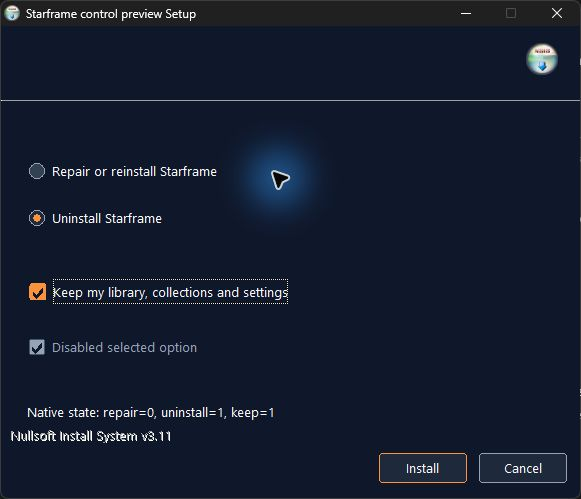
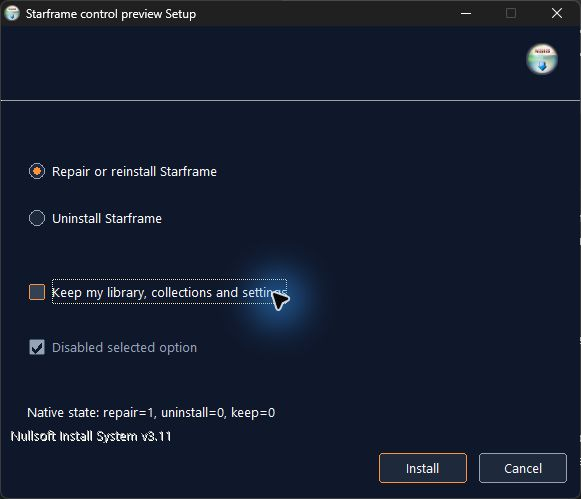
Stabilize installer focus outlines and header painting

diff --git a/src-tauri/windows/theme/buttons.cpp b/src-tauri/windows/theme/buttons.cpp
@@ -29,7 +29,7 @@ static bool DrawButton(const NMCUSTOMDRAW& draw)
         : hovered ? RGB(51, 65, 85) : RGB(30, 41, 59);
     const int saved = SaveDC(draw.hdc);
     if (!saved) return false;
-    const int width = MulDiv(focused ? 2 : 1, static_cast<int>(dpi), 96);
+    const int width = MulDiv(1, static_cast<int>(dpi), 96);
     const HPEN pen = CreatePen(PS_SOLID, width > 0 ? width : 1, border);
     const HBRUSH brush = CreateSolidBrush(background);
     const HBRUSH canvas = CreateSolidBrush(RGB(15, 23, 42));
@@ -98,9 +98,10 @@ static bool DrawButton(const NMCUSTOMDRAW& draw)
     UINT flags = (choice ? DT_LEFT : DT_CENTER) | DT_VCENTER | DT_SINGLELINE;
     if (SendMessageW(button, WM_QUERYUISTATE, 0, 0) & UISF_HIDEACCEL) flags |= DT_HIDEPREFIX;
     DrawTextW(draw.hdc, caption, -1, &bounds, flags);
-    if (choice && focused) {
+    if (focused) {
         RECT focus = bounds;
         DrawTextW(draw.hdc, caption, -1, &focus, flags | DT_CALCRECT);
+        if (!choice) OffsetRect(&focus, (bounds.right - focus.right) / 2, 0);
         OffsetRect(&focus, 0, (bounds.bottom - focus.bottom) / 2);
         DrawFocusRect(draw.hdc, &focus);
     }
@@ -218,6 +219,25 @@ extern "C" void __cdecl Apply(HWND parent, int, wchar_t*, void*, void*)
     HMODULE module;
     if (!GetModuleHandleExW(GET_MODULE_HANDLE_EX_FLAG_FROM_ADDRESS | GET_MODULE_HANDLE_EX_FLAG_PIN,
         reinterpret_cast<LPCWSTR>(&Apply), &module)) return;
+    const HWND header = GetDlgItem(parent, 1037);
+    const HWND subtitle = GetDlgItem(parent, 1038);
+    const HWND background = GetDlgItem(parent, 1034);
+    if (header && subtitle && background) {
+        RECT titleBounds;
+        RECT subtitleBounds;
+        GetWindowRect(header, &titleBounds);
+        GetWindowRect(subtitle, &subtitleBounds);
+        MapWindowPoints(nullptr, parent, reinterpret_cast<POINT*>(&titleBounds), 2);
+        MapWindowPoints(nullptr, parent, reinterpret_cast<POINT*>(&subtitleBounds), 2);
+        SetWindowPos(header, HWND_TOP, subtitleBounds.left, titleBounds.top,
+            titleBounds.right - subtitleBounds.left, titleBounds.bottom - titleBounds.top,
+            SWP_NOACTIVATE);
+        // The full-width static backdrop must not repaint over the header labels.
+        SetWindowLongW(background, GWL_STYLE,
+            GetWindowLongW(background, GWL_STYLE) | WS_CLIPSIBLINGS);
+        SetWindowPos(background, HWND_BOTTOM, 0, 0, 0, 0,
+            SWP_NOMOVE | SWP_NOSIZE | SWP_NOACTIVATE);
+    }
     SetWindowSubclass(parent, DialogTheme, 1, 0);
     EnumChildWindows(parent, AttachDialog, 0);
 }

diff --git a/docs/verification/windows-installer.md b/docs/verification/windows-installer.md
@@ -112,6 +112,8 @@ On 16 September the owner accepted the installer except for radio and checkbox s
 
 The full installer regression passed again with the drawing helper: migration, repair, both data choices, running-app protection and recovery. Actual interruption occurred after 9 of 8,192 game files and 491 data files; retries completed. The final field/group refinement compiled with warnings treated as errors and was inspected in the packaged installer. The fixture uses only ignored test evidence and a separate product/data identity. No real game or personal Starframe data was changed. Logs and any screenshots containing local paths remain ignored.
 
+The next review found uneven focused outlines and an intermittently missing license heading. The old build reproduced a blank title while accessibility still reported `License Agreement`. Focus no longer changes pen width or control geometry; push buttons also receive a text focus marker. The header backdrop now clips sibling controls and stays behind the title, and the title aligns with the subtitle/body margin. The corrected native installer kept its title on four license-page visits, including two returns through Welcome and a return from the destination page. Welcome layout and destination content were also checked. The packaged build and all six maintenance cases passed again. To repeat this regression check: visit License, return to Welcome and revisit License twice, then continue to the destination page and return to License; verify both the visible title and the unchanged control outlines as focus moves.
+
 ## Owner-reported offline VM acceptance
 
 The owner supplied the test-kit baseline and reported the following manual results. The baseline identifies Windows 11 Education 25H2, build 26200.6584, x64, running without elevation. Node, Rust and the .NET CLI were absent. Starframe was not registered, and its executable, app data and database were absent. WebView2 140.0.3485.66 was registered in the machine's 32-bit registry view. The report's guest-clock timestamp is `2026-09-16T04:59:51.9746773Z`; clock synchronization was not independently checked.

diff --git a/DESIGN.md b/DESIGN.md
@@ -43,6 +43,8 @@ The subsequent uninstall review requested thin borders instead of raised, bright
 
 Radio buttons and checkboxes also use thin borders, with orange radio dots and orange checkbox fills with dark checkmarks. Keep selection and keyboard focus distinguishable, preserve native checked/disabled states and radio-group navigation, and retain the unchecked data-retention default.
 
+Installer focus uses the same border geometry as the unfocused control: change the color without widening or shifting the outline, and retain a native text focus marker. Keep the approved checkmark shape. Standard-page headings align with their subtitle and body content.
+
 Starframe manages the game integration automatically. Choosing a validated game installation authorizes preparation of the required bootstrap/runtime when the game is closed. App installation and upgrades include the required runtime resources; the desktop prepares the matching runtime automatically on first start and after updates. If a game location is not yet known, ask for the location, not a separate runtime installation. Show preparation, waiting and failure states accurately. Keep repair/reinstall available in Settings without making it part of ordinary setup.
 
 Uninstall automatically removes Starframe's recorded game integration and restores backed-up originals before removing the desktop app. Users must not have to visit Settings first. A running game, inaccessible installation or conflicting files must stop cleanup with an explanation and a retry path. Keep the app and its recovery records until cleanup succeeds; never force-close the game or erase another loader's files.

diff --git a/docs/design/installer/README.md b/docs/design/installer/README.md
@@ -6,6 +6,8 @@ The owner accepted the artwork, palette and general direction, then requested co
 
 The welcome and license captures show the final thin borders. The maintenance, completed and finish captures record the earlier full-page review, before the shared drawing helper was added.
 
+The latest welcome/license captures include the fixed-width focus outlines and aligned header. The header backdrop no longer paints over the title on a return visit. The approved checkmark shape is unchanged.
+
 The owner accepted the installer and requested matching radio buttons and checkboxes on 16 September 2026. These now use thin borders, orange dots/checkmarks and a separate text focus indicator. The control-only fixture below exercises the production drawing helper; its empty header and NSIS footer are fixture scaffolding, not the packaged installer.
 
 ![Radio and checkbox states in the isolated control fixture](choices.jpg)
